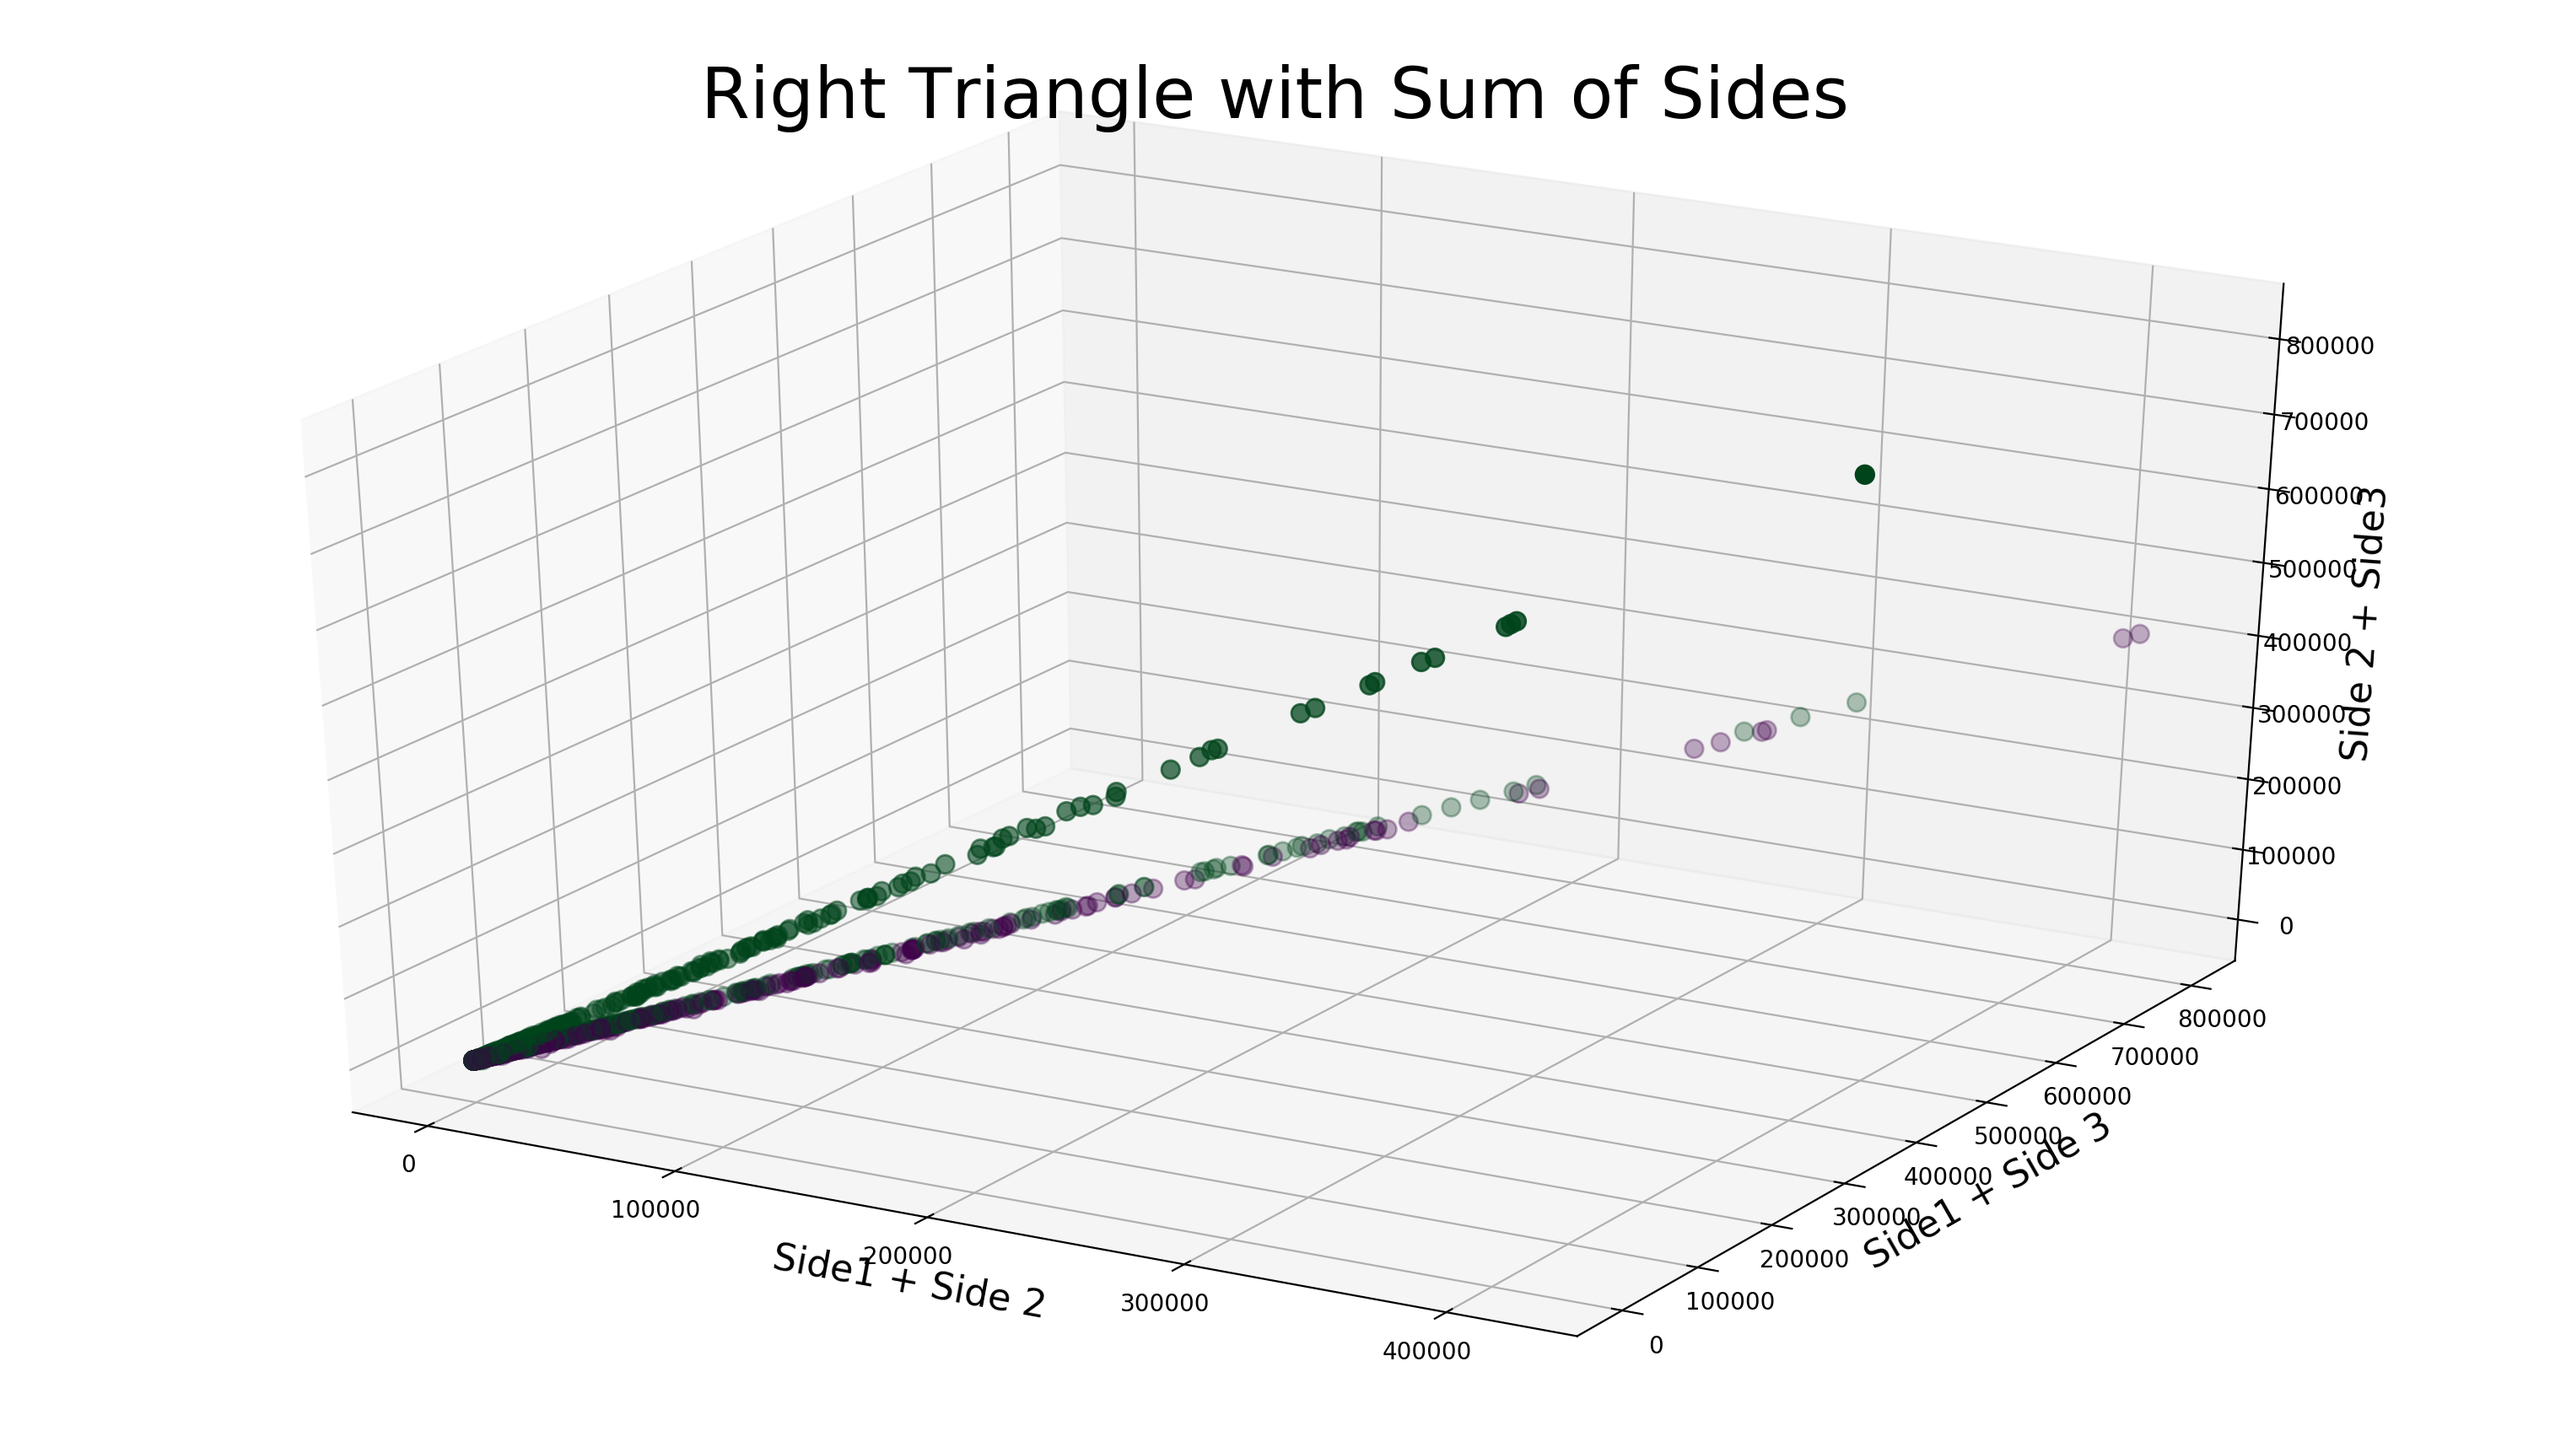
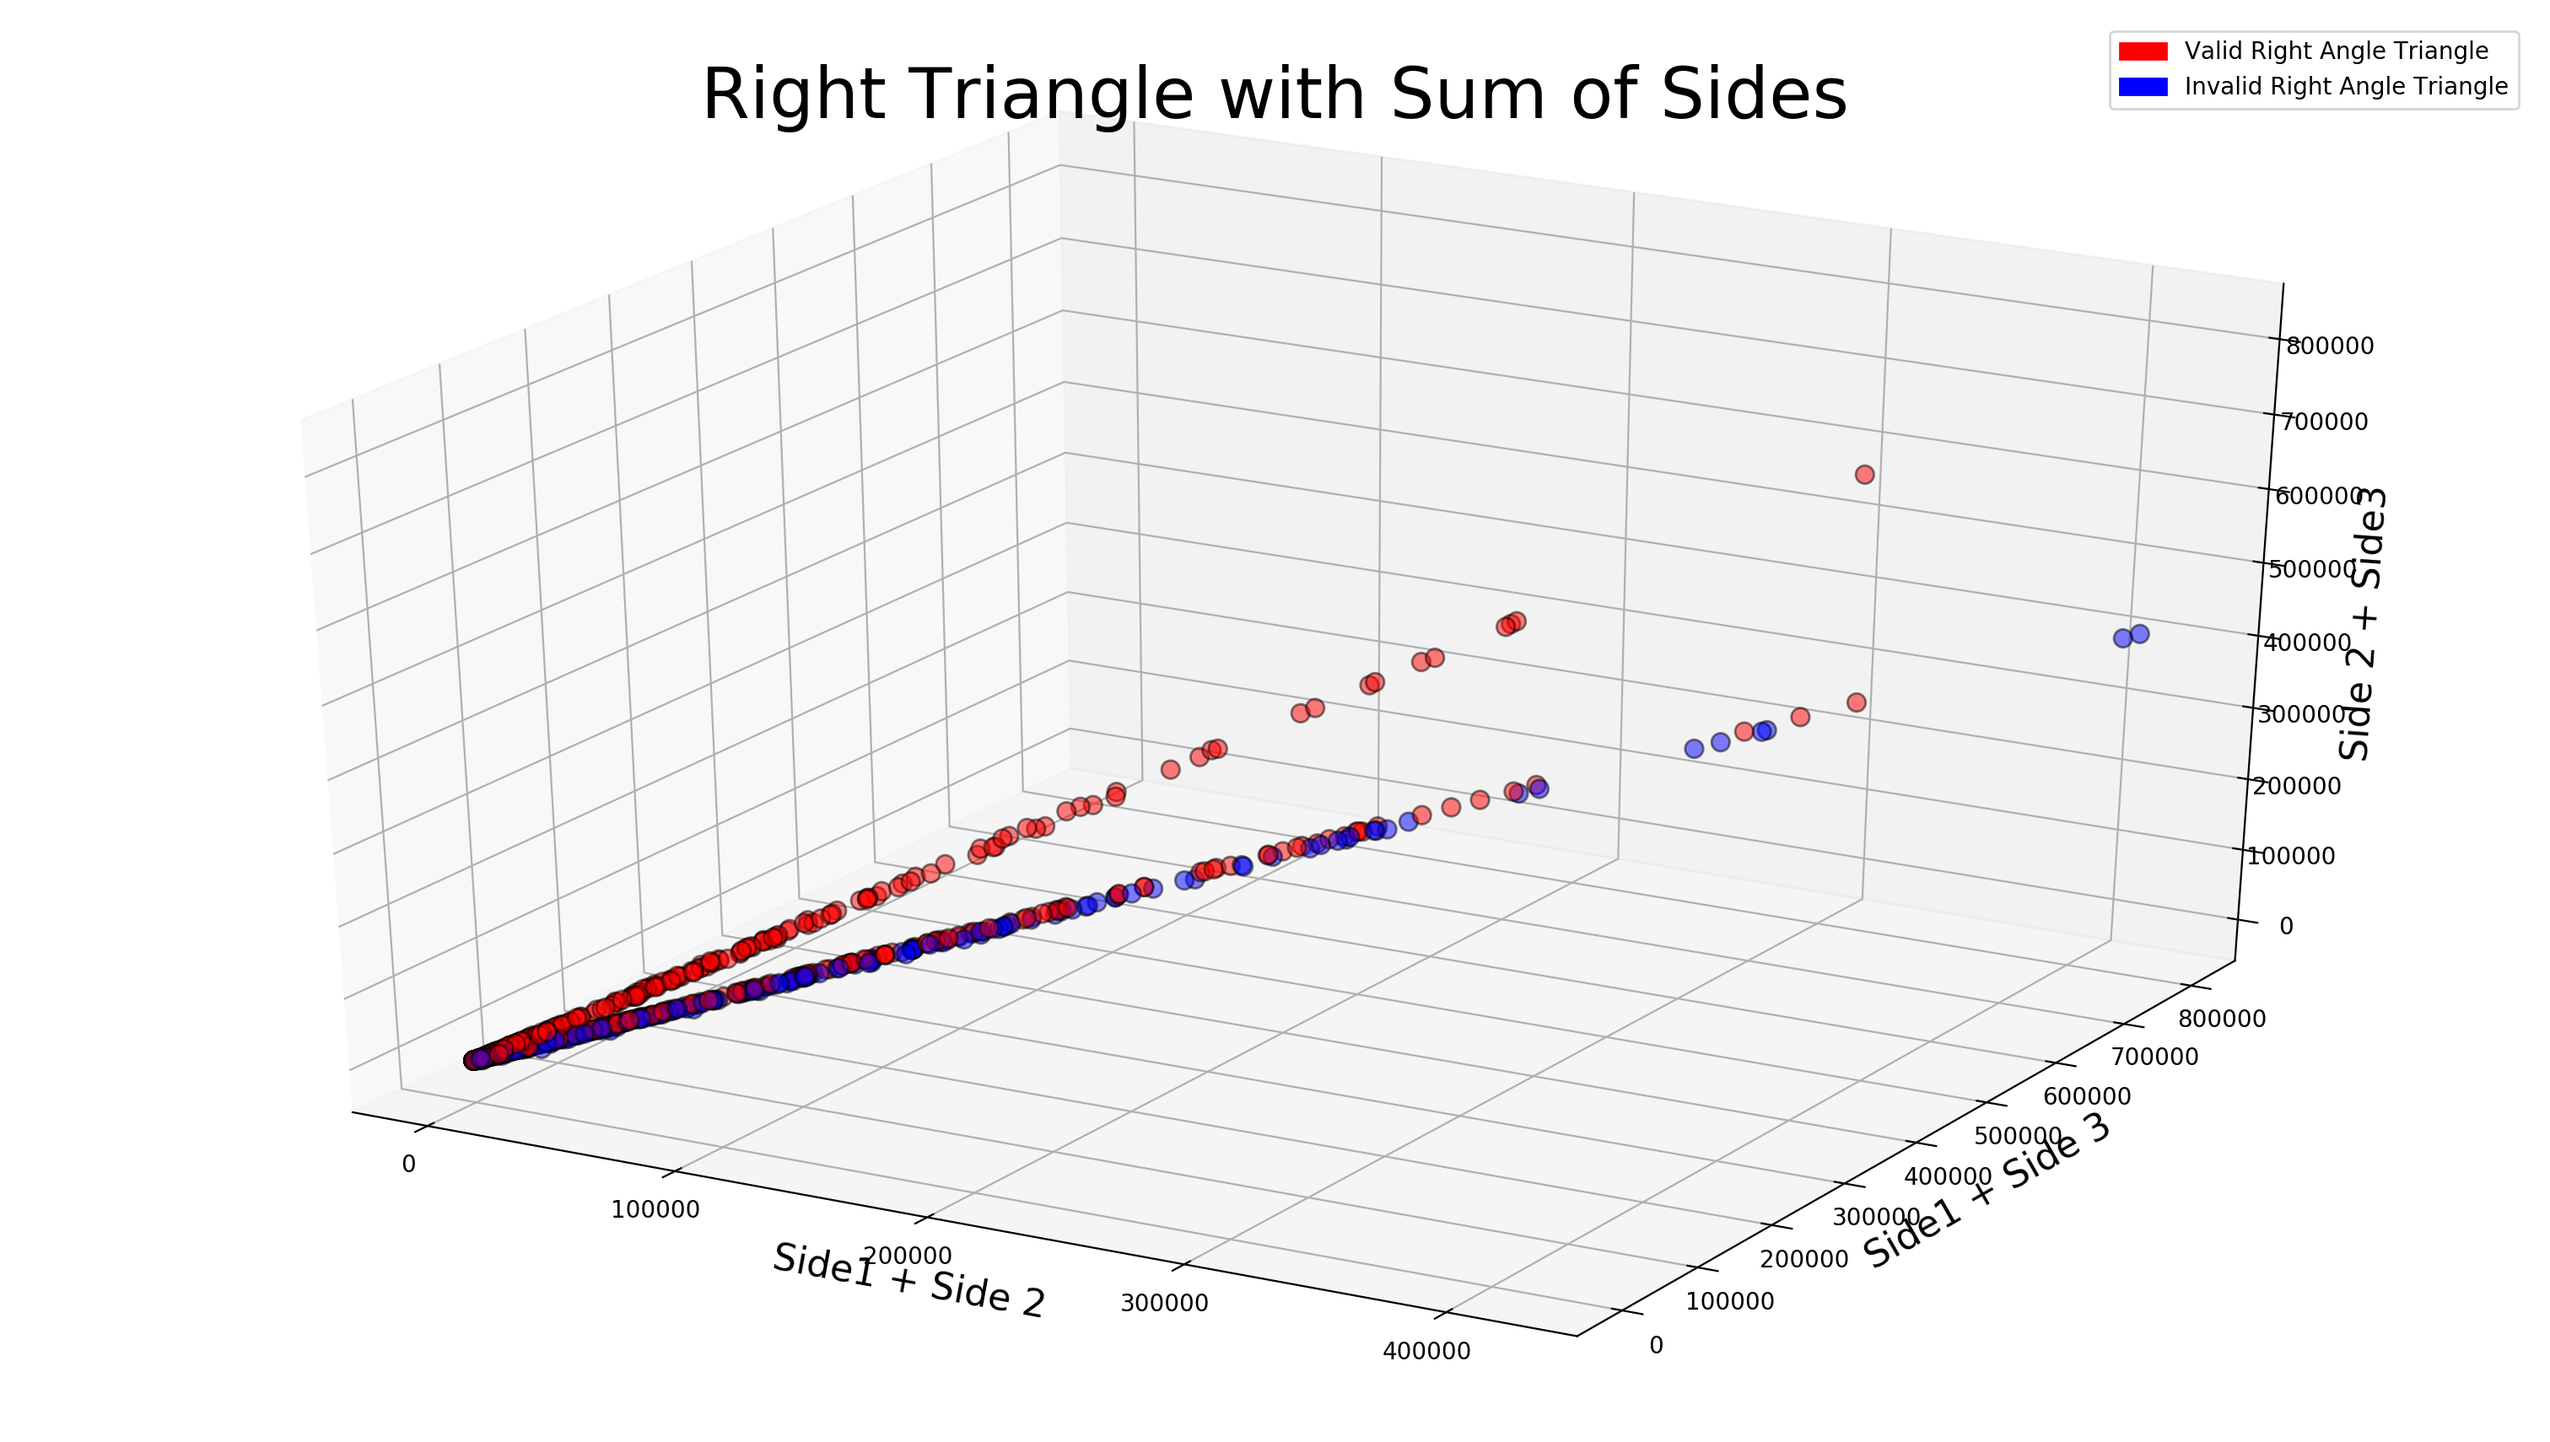
Added legends for the plots

diff --git a/plot_dataset_3d.py b/plot_dataset_3d.py
@@ -3,8 +3,11 @@
 A program to plot the triangle and right triangle datasets
 """
 import os.path
+import numpy as np
 import pandas as pnd
+import matplotlib as mpl
 import matplotlib.pyplot as plt
+import matplotlib.patches as mpatches
 from mpl_toolkits.mplot3d import Axes3D
 
 # local python import
@@ -44,6 +47,8 @@ IMAGE_RT_FILES = [
     IMG5_RT_FILES, IMG6_RT_FILES
 ]
 
+mpl.rcParams['legend.fontsize'] = 10
+
 for count, T_FILES in enumerate(DATASET_T_FILES):
     for counter, dataset in enumerate(T_FILES):
 
@@ -64,17 +69,21 @@ for count, T_FILES in enumerate(DATASET_T_FILES):
             x, y, z = DF['side1+side2'], DF['side1+side3'], DF['side2+side3']
             l1, l2, l3 = 'Side1 + Side 2', 'Side 1 + Side 3', 'Side 2 + Side 3'
             title = "Normal Triangle with Sum of Sides"
-
+        colors = np.where(DF['validity'] == 1, 'red', 'blue')
         THREEDEE.scatter(
             x, y, z,
-            c=DF['validity'],
+            c=colors,
             s=60,
-            cmap='PRGn'
+            alpha=0.5, edgecolors='none',
+            label='Valid Triangle'
         )
         THREEDEE.set_title(title, fontsize=30)
         THREEDEE.set_xlabel(l1, fontsize=16)
         THREEDEE.set_ylabel(l2, fontsize=16)
         THREEDEE.set_zlabel(l3, fontsize=16)
+        red_patch = mpatches.Patch(color='red', label='Valid Triangle')
+        blue_patch = mpatches.Patch(color='blue', label='Invalid Triangle')
+        THREEDEE.legend(handles=[red_patch, blue_patch])
         plt.savefig(IMAGE_T_FILES[count][counter], dpi=200, bbox_inches='tight')
         print("Generated %s file" % IMAGE_T_FILES[count][counter])
 
@@ -114,15 +123,25 @@ for count, RT_FILES in enumerate(DATASET_RT_FILES):
             l3 = 'Side 2^2 + Side3^2'
             title = "Right Triangle with Sum of Side Squares"
 
+        colors1 = np.where(DF['validity'] == 1, 'red', 'blue')
         THREEDEE.scatter(
             x, y, z,
-            c=DF['validity'],
+            c=colors,
             s=60,
-            cmap='PRGn'
+            alpha=0.5, edgecolors='none'
         )
         THREEDEE.set_title(title, fontsize=30)
         THREEDEE.set_xlabel(l1, fontsize=16)
         THREEDEE.set_ylabel(l2, fontsize=16)
         THREEDEE.set_zlabel(l3, fontsize=16)
+        red_patch = mpatches.Patch(
+            color='red',
+            label='Valid Right Angle Triangle'
+        )
+        blue_patch = mpatches.Patch(
+            color='blue',
+            label='Invalid Right Angle Triangle'
+        )
+        THREEDEE.legend(handles=[red_patch, blue_patch])
         plt.savefig(IMAGE_RT_FILES[count][counter], dpi=200, bbox_inches='tight')
         print("Generated %s file" % IMAGE_RT_FILES[count][counter])
